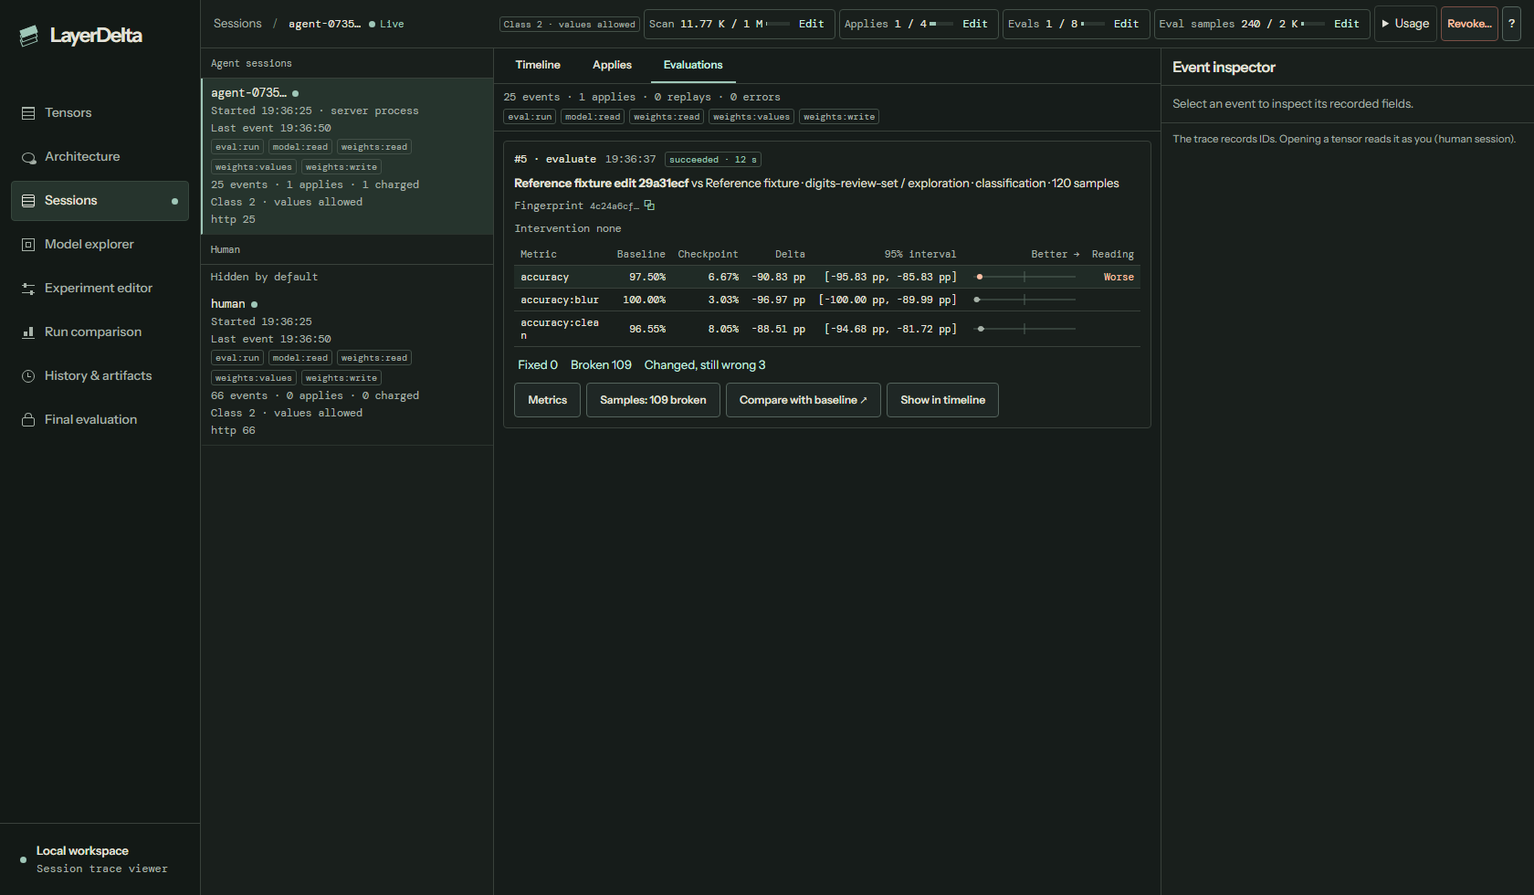
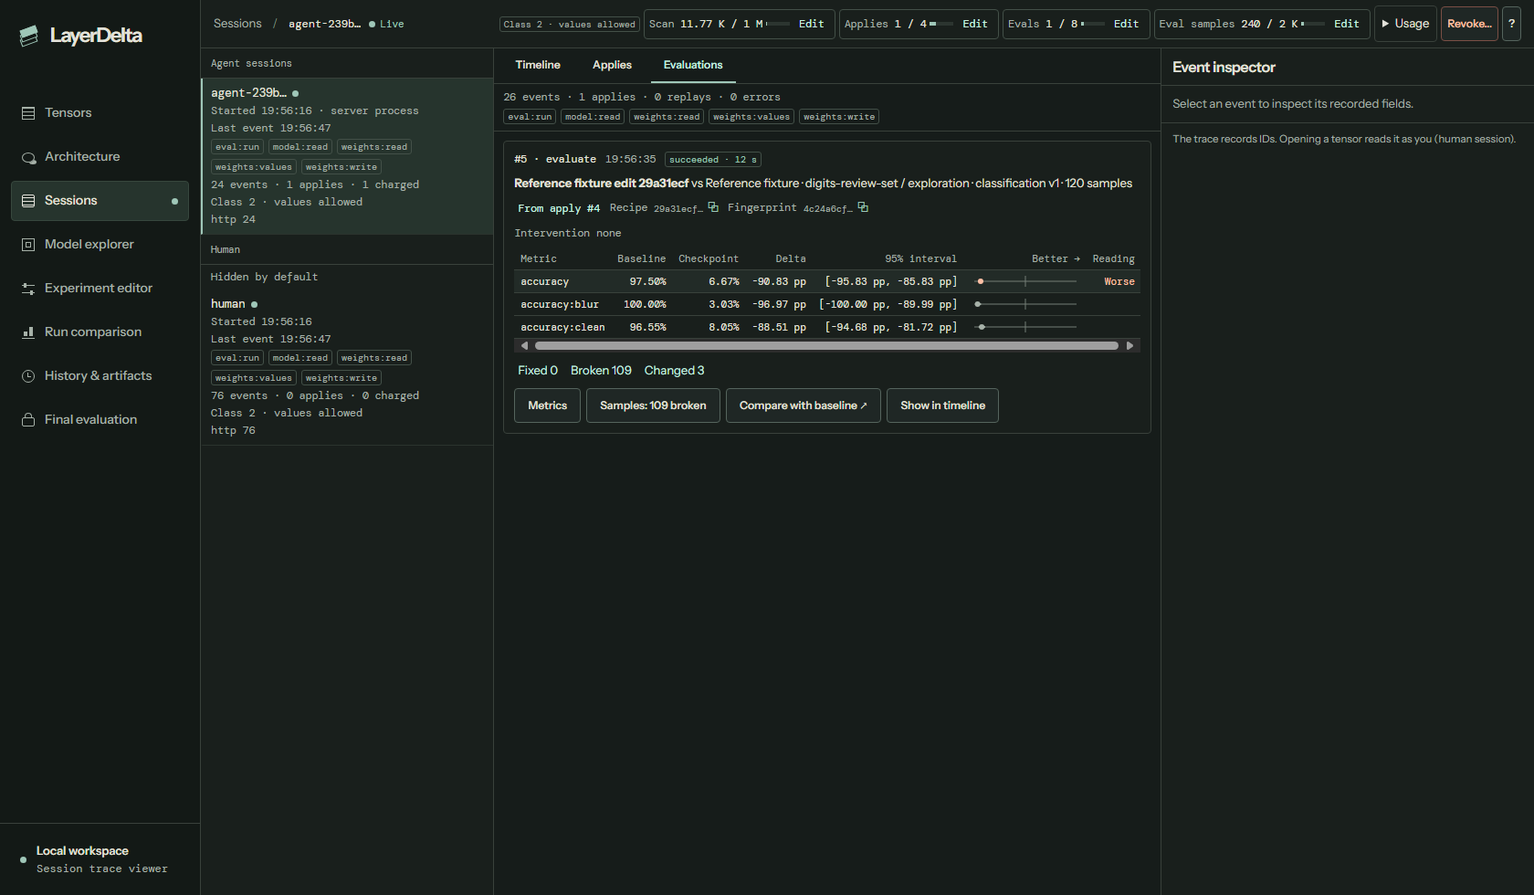
Align evaluation review with the live contract

diff --git a/desktop/src/SessionMeasurements.tsx b/desktop/src/SessionMeasurements.tsx
@@ -97,9 +97,10 @@ function IntervalPlot({metric, extent}: {metric: Metric; extent: number}) {
     {metric.delta !== null && <circle fill="currentColor" cx={pos(metric.delta)} cy="7" r="3"/>}
   </svg>;
 }
-function MetricTable({metrics, dataset, absolute = false}: {metrics: Metric[]; dataset?: Dataset; absolute?: boolean}) {
+function MetricTable({metrics, dataset, absolute = false, extent}: {metrics: Metric[]; dataset?: Dataset; absolute?: boolean;
+  extent?: ReturnType<typeof intervalDomain>}) {
   const sorted = [...metrics].sort((a,b) => Number(b.primary) - Number(a.primary));
-  const domain = intervalDomain(sorted);
+  const domain = extent ?? intervalDomain(sorted);
   return <div className="ev-metric-scroll"><table className="ev-metrics">
     <thead><tr><th>Metric</th>{!absolute && <th>Baseline</th>}<th>Checkpoint</th>{!absolute && <>
       <th>Delta</th><th>95% interval</th><th>Better →</th><th>Reading</th></>}</tr></thead>
@@ -111,7 +112,7 @@ function MetricTable({metrics, dataset, absolute = false}: {metrics: Metric[]; d
         "Confusion " + label(Number(confusion[1])) + " → " + label(Number(confusion[2])) + (confusion[3] ? " · " + confusion[3] : "") :
         m.name.replaceAll("_", " ");
       return <tr key={m.name + ":" + (row.class ?? "")} data-primary={m.primary}>
-        <th scope="row">{name}</th>
+        <th scope="row" title={String(name)}>{name}</th>
         {!absolute && <td>{metricNumber(m.baseline, m.unit)}</td>}<td>{metricNumber(m.value, m.unit)}</td>
         {!absolute && <><td>{metricNumber(m.delta, m.unit, true)}</td>
           <td>{m.ci ? "[" + m.ci.map(n => metricNumber(n, m.unit, true)).join(", ") + "]" : row.n == null ? "No interval" : "No interval (n = " + count(row.n) + ")"}</td>
@@ -161,7 +162,7 @@ function EvaluationHeader({event, job, dataset, names, now, events, jump}: {even
       {typeof task === "string" && " · " + task}{(typeof version === "string" || typeof version === "number") && " v" + version}
       {job && " · " + count(job.samples) + " samples"}
     </p>
-    <p className="tv-meta ev-measured">{event.links?.apply_seq !== undefined && <button type="button" className="tv-text-button" onClick={() => jump(event.links!.apply_seq!)}>From apply #{event.links.apply_seq}</button>}
+    <p className="tv-meta ev-measured">{event.links?.apply_seq != null && <button type="button" className="tv-text-button" onClick={() => jump(event.links!.apply_seq!)}>From apply #{event.links.apply_seq}</button>}
       {recipe && <> Recipe <CopyId id={recipe} label="recipe"/></>}
       {hash && <> Fingerprint <CopyId id={hash} label="fingerprint"/></>}
       {(job?.baseline_cached || event.baseline_cached) && <span className="tv-flag">cached baseline</span>}</p>
@@ -234,6 +235,9 @@ export function EvaluationDetail({detail, event, events, now, names, datasets, a
   const {dataset, failed} = useDataset(id, datasets.get(id ?? ""));
   const ready = job?.status === "succeeded";
   const absolute = job?.baseline_id === null;
+  const metrics = job?.metrics ?? [];
+  const extent = intervalDomain(metrics.flatMap(metric => [metric, ...(metric.per_class ?? [])]));
+  const splitHash = job?.split_sha256 ?? event.split_sha256 ?? dataset?.split_sha256?.[job?.split ?? ""];
   return <div className="ev-detail">
     <div className="ev-actions ev-detail-nav">
       <button type="button" onClick={back}>← Evaluations</button>
@@ -247,11 +251,11 @@ export function EvaluationDetail({detail, event, events, now, names, datasets, a
         <div className="ev-actions">{compareAction(job, actions)}<button type="button" onClick={() => jump(event.seq)}>Show in timeline</button></div>
         {job.evaluator && <details open><summary>Evaluator</summary><Facts values={job.evaluator}/></details>}
         {dataset && <details open><summary>Dataset preprocessing</summary><Facts values={dataset.preprocessing}/></details>}
-        {(job.split_hash ?? dataset?.split_sha256?.[job.split]) && <p className="tv-meta">Dataset split hash <CopyId id={(job.split_hash ?? dataset?.split_sha256?.[job.split])!} label="split hash"/></p>}
-        {!!job.metrics?.length && <MetricTable metrics={job.metrics} dataset={dataset} absolute={absolute}/>}
+        {splitHash && <p className="tv-meta">Dataset split hash <CopyId id={splitHash} label="split hash"/></p>}
+        {!!job.metrics?.length && <MetricTable metrics={job.metrics} dataset={dataset} absolute={absolute} extent={extent}/>}
         {job.metrics?.map(metric => !!metric.per_class?.length && <details key={metric.name}>
           <summary>{metric.name.replaceAll("_", " ")} per class ({metric.per_class.length})</summary>
-          <MetricTable metrics={[...metric.per_class].sort((a,b) => Math.abs(b.delta ?? 0) - Math.abs(a.delta ?? 0)).map(row => ({...row, primary: false}))} dataset={dataset} absolute={absolute}/>
+          <MetricTable metrics={[...metric.per_class].sort((a,b) => Math.abs(b.delta ?? 0) - Math.abs(a.delta ?? 0)).map(row => ({...row, primary: false}))} dataset={dataset} absolute={absolute} extent={extent}/>
         </details>)}
         <p className="tv-meta">Deltas are paired on the same samples. Intervals are 95% paired bootstrap, 2,000 resamples, fixed seed.</p>
       </>}
@@ -315,10 +319,10 @@ export function MeasurementEvidence({event, events, datasets, now, actions, open
     if (name) sections.push(<p key="dataset">Dataset {name}</p>);
   }
   if (isRead && origin) sections.push(<p key="origin">The agent read the results of <button type="button" className="tv-text-button" onClick={() => jump(origin.seq)}>#{origin.seq}</button>.</p>);
-  if (event.page_offset != null) {
+  if (event.offset != null) {
     const limit = event.page_limit;
-    sections.push(<p key="page">{limit ? "Page " + (Math.floor(event.page_offset / limit) + 1) + " · rows " + (event.page_offset + 1) + "–" + (event.page_offset + limit) :
-      "Rows starting at " + (event.page_offset + 1)}</p>);
+    sections.push(<p key="page">{limit ? "Page " + (Math.floor(event.offset / limit) + 1) + " · requested rows " + (event.offset + 1) + "–" + (event.offset + limit) :
+      "Rows starting at " + (event.offset + 1)}</p>);
   }
   if (record && "evaluation_id" in record) {
     const evalEvent = origin ?? event;

diff --git a/desktop/src/sessionMeasurements.css b/desktop/src/sessionMeasurements.css
@@ -2,7 +2,7 @@
 .ev-actions label {display:flex; align-items:center; gap:5px}
 .ev-actions input[type=number] {width:65px}
 .ev-actions select {width:auto; max-width:160px}
-.ev-actions button[aria-pressed=true] {color:var(--tv-light); border-color:var(--tv-mint); background:#26342d}
+.ev-actions button[aria-pressed=true] {color:var(--tv-light); border-color:var(--tv-mint); background:color-mix(in srgb,var(--tv-mint) 12%,var(--tv-ground))}
 .ev-list,.ev-detail {flex:1; min-height:0; overflow:auto}
 .ev-list .tv-cards {overflow:visible}
 .ev-list > button {margin:8px}
@@ -19,23 +19,24 @@
   .tv-context-meters .tv-meter progress {width:26px}
   .trace-viewer .tv-context-meters > button,.trace-viewer .tv-context-meters .tv-meter button {padding-inline:6px}
 }
-.ev-measure-only,.ev-pixel-notice {padding:7px 9px; background:#24352e; border-left:2px solid var(--tv-mint); color:var(--tv-light)}
+.ev-measure-only,.ev-pixel-notice {padding:7px 9px; background:color-mix(in srgb,var(--tv-mint) 14%,var(--tv-ground)); border-left:2px solid var(--tv-mint); color:var(--tv-light)}
 .ev-copy {display:inline-flex; align-items:center; gap:2px}
 .ev-metric-scroll {overflow:auto; max-width:100%}
 .ev-metrics,.ev-probe-table {border-collapse:collapse; width:100%; font:11px var(--meta-face); font-variant-numeric:tabular-nums}
 .ev-metrics :is(td,th),.ev-probe-table :is(td,th) {border-bottom:1px solid var(--tv-line); padding:5px 7px; text-align:right; white-space:nowrap}
-.ev-metrics :is(td,th):first-child {text-align:left; white-space:normal; min-width:76px}
+.ev-metrics :is(td,th):first-child {text-align:left; min-width:76px; max-width:132px; overflow:hidden; text-overflow:ellipsis}
 .ev-metrics thead th,.ev-probe-table thead th {color:var(--tv-muted); font-weight:400}
-.ev-metrics tbody tr[data-primary=true] {background:#202b26}
-.ev-primary {display:flex; align-items:baseline; flex-wrap:wrap; gap:5px 9px; font:11px var(--meta-face); padding:6px; background:#202b26}
+.ev-metrics tbody tr[data-primary=true] {background:color-mix(in srgb,var(--tv-mint) 7%,var(--tv-ground))}
+.ev-primary {display:flex; align-items:baseline; flex-wrap:wrap; gap:5px 9px; font:11px var(--meta-face); padding:6px; background:color-mix(in srgb,var(--tv-mint) 7%,var(--tv-ground))}
 .ev-interval {display:block; color:var(--tv-muted)}
-.ev-guide {stroke:#52645a; stroke-width:1}
+.ev-guide {stroke:color-mix(in srgb,var(--tv-muted) 55%,var(--tv-line)); stroke-width:1}
 :is(.ev-interval,.ev-reading)[data-reading=Improved] {color:var(--tv-mint)}
 :is(.ev-interval,.ev-reading)[data-reading=Worse] {color:var(--tv-bad)}
 .ev-facts {padding:6px}
 .ev-job-anchor {display:inline-flex; gap:3px; min-width:1px; min-height:10px; align-items:center}
 .ev-job[data-job=running] {color:var(--tv-run)}
 .ev-job[data-job=failed] {color:var(--tv-bad)}
+.tv-event-flags .ev-raw {flex:none}
 .ev-job[data-job=succeeded] {color:var(--tv-mint)}
 .tv-event-flags:has(.ev-intervention-flag) .tv-charge {order:1}
 .tv-event-flags .ev-intervention-flag {flex:none; color:var(--tv-write)}
@@ -49,9 +50,9 @@
 .trace-viewer .ev-sample-tile {display:grid; justify-items:center; gap:4px; text-align:left; width:100%; min-width:0; padding:5px; border-left:2px solid var(--tv-line)}
 .trace-viewer .ev-sample-tile[data-category=broken] {border-left-color:var(--tv-bad)}
 .trace-viewer .ev-sample-tile[data-category=fixed] {border-left-color:var(--tv-mint)}
-.ev-sample-grid [aria-selected=true] .ev-sample-tile {outline:1px solid var(--tv-mint); background:#26342d}
+.ev-sample-grid [aria-selected=true] .ev-sample-tile {outline:1px solid var(--tv-mint); background:color-mix(in srgb,var(--tv-mint) 12%,var(--tv-ground))}
 .ev-image-container {width:min(var(--ev-image-size),100%); height:auto; aspect-ratio:1; display:grid; place-items:center; align-content:center; margin-inline:auto;
-  background:#171e1c; position:relative; overflow:hidden}
+  background:var(--tv-ground); position:relative; overflow:hidden}
 .ev-image-stack {max-width:100%; max-height:100%; position:relative; line-height:0}
 .ev-image-stack img {width:100%; height:100%; object-fit:contain}
 .ev-image-stack img[data-pixelated=true] {image-rendering:pixelated}

diff --git a/desktop/src/TraceTimeline.tsx b/desktop/src/TraceTimeline.tsx
@@ -58,7 +58,7 @@ export function TraceTimeline({events, selected, session, names, resolved, follo
     Math.max(width, String(event.status).length + (event.error_code ? 1 + event.error_code.length : 0)), 6), [events]);
   const chargeWidth = useMemo(() => events.reduce((width, event) => Math.max(width, ...Object.entries(event.budget_charged ?? {})
     .filter(([, amount]) => amount > 0).map(([dim, amount]) => (dim + " " + count(amount)).length)), 8), [events]);
-  const measureWidth = events.some(event => event.evaluation_id || event.probe_id) ? 130 : 0;
+  const measureWidth = events.some(event => event.evaluation_id || event.probe_id) ? 153 : 0;
   const budgetRow = rows.findIndex(row => "event" in row && row.event.status === 429);
   const mix = Object.entries(session.via_mix ?? {}).filter(([, n]) => n > 0).length > 1;
   const focused = cursor ?? selectionKey;
@@ -177,7 +177,8 @@ export function TraceTimeline({events, selected, session, names, resolved, follo
             </div>;
             if ("burst" in row) {
               const first = row.burst[0], last = row.burst.at(-1)!;
-              const targets = [...new Set(row.burst.map(event => eventTarget(event, names, resolved)))];
+              const resultId = measureResultKey(first);
+              const targets = resultId ? [shortId(resultId)] : [...new Set(row.burst.map(event => eventTarget(event, names, resolved)))];
               return <div role="row" key={row.key} style={style} aria-rowindex={i + 1} className="tv-event tv-burst" data-dim={!keep(first)}>
                 <span role="rowheader">#{first.seq}</span><span role="gridcell" className="tv-full">
                   <button type="button" aria-expanded={row.expanded} onClick={() => setOpened(previous => {
@@ -227,7 +228,8 @@ export function TraceTimeline({events, selected, session, names, resolved, follo
                 {isReplay(event) ? <span className="tv-flag tv-replay">↩ {event.replay_of === null ? "replayed" : "#" + event.replay_of}</span> :
                   isCharged(event) && <span className="tv-flag tv-charge">{budget.length ? budget[0][0] + " " + count(budget[0][1]) : "charged"}</span>}
                 {event.intervention_id && <span className="tv-flag ev-intervention-flag">intervention</span>}
-                {id && <JobChip id={id} now={now} raw={!!event.probe_id && event.capabilities.includes("weights:values") && event.session !== "human"}/>}
+                {id && !measureResultKey(event) &&
+                  <JobChip id={id} now={now} compact raw={!!event.probe_id && event.capabilities.includes("weights:values") && event.session !== "human"}/>}
                 {event.baseline_cached && <span className="tv-flag">cached baseline</span>}
                 {row.capChanged && <span className="tv-flag">caps changed</span>}
                 {event.existing && <span className="tv-flag">existing</span>}

diff --git a/desktop/src/traceSource.ts b/desktop/src/traceSource.ts
@@ -12,10 +12,10 @@ export type TraceEvent = {
   selections: string[]; ops: number | string[] | null; recipe_hash: string | null; child_id: string | null; run_id: string | null;
   idempotency_key: string | null; replayed: boolean | null; replay_of: number | null; existing: boolean | null;
   charged: number; budget_charged: Partial<Record<Dimension, number>> | null; capabilities: string[];
-  links: {plan_seqs: number[]; selection_seqs: number[]; child_id: string | null; proposal_seq?: number; apply_seq?: number} | null;
-  evaluation_id?: string; probe_id?: string; dataset_id?: string; split?: string; split_hash?: string;
+  links: {plan_seqs: number[]; selection_seqs: number[]; child_id: string | null; proposal_seq?: number; apply_seq?: number | null} | null;
+  evaluation_id?: string; probe_id?: string; dataset_id?: string; split?: string; split_sha256?: string;
   fingerprint?: string; baseline_id?: string | null; baseline_cached?: boolean; eval_samples?: number;
-  intervention_id?: string; units?: number; page_offset?: number; page_limit?: number;
+  intervention_id?: string; units?: number; offset?: number; page_limit?: number;
   control: {principal: "human"; action: "revoke" | "budget_change" | "approve" | "reject";
     dimension?: Dimension; from?: number | null; to?: number | null; proposal_id?: string; child_id?: string} | null;
   duration_ms: number | null; principal: string | null; target_session: string | null;
@@ -68,9 +68,9 @@ export function traceEvent(raw: Partial<TraceEvent> & Pick<TraceEvent, "event_id
     capabilities: raw.capabilities ?? [],
     links: raw.links ? {plan_seqs: raw.links.plan_seqs ?? [], selection_seqs: raw.links.selection_seqs ?? [],
       child_id: raw.links.child_id ?? null, proposal_seq: raw.links.proposal_seq, apply_seq: raw.links.apply_seq} : null,
-    evaluation_id: raw.evaluation_id, probe_id: raw.probe_id, dataset_id: raw.dataset_id, split: raw.split, split_hash: raw.split_hash,
+    evaluation_id: raw.evaluation_id, probe_id: raw.probe_id, dataset_id: raw.dataset_id, split: raw.split, split_sha256: raw.split_sha256,
     fingerprint: raw.fingerprint, baseline_id: raw.baseline_id, baseline_cached: raw.baseline_cached, eval_samples: raw.eval_samples,
-    intervention_id: raw.intervention_id, units: raw.units, page_offset: raw.page_offset, page_limit: raw.page_limit,
+    intervention_id: raw.intervention_id, units: raw.units, offset: raw.offset, page_limit: raw.page_limit,
     control: control ? {principal: control.principal, action: control.action, dimension: control.dimension, from: control.from, to: control.to,
       proposal_id: control.proposal_id, child_id: control.child_id} : null,
     duration_ms: raw.duration_ms ?? null, principal: raw.principal ?? null, target_session: raw.target_session ?? null,

diff --git a/desktop/src/TraceInspector.tsx b/desktop/src/TraceInspector.tsx
@@ -14,12 +14,12 @@ type Evidence = {
   actions: TraceActions; jump: (seq: number) => void;
 };
 const idFields = new Set(["session", "request_id", "checkpoint_id", "other_checkpoint_id", "selection_id", "recipe_hash", "child_id", "run_id", "idempotency_key", "target_session", "proposal_id",
-  "evaluation_id", "probe_id", "dataset_id", "split_hash", "fingerprint", "baseline_id", "intervention_id"]);
+  "evaluation_id", "probe_id", "dataset_id", "split_sha256", "fingerprint", "baseline_id", "intervention_id"]);
 const fields = [
   "event_id", "session", "seq", "at", "route", "tool", "via", "request_id", "status", "error_code", "field", "checkpoint_id",
   "other_checkpoint_id", "selection_id", "selections", "ops", "recipe_hash", "child_id", "run_id", "idempotency_key", "replayed", "replay_of",
-  "existing", "charged", "budget_charged", "capabilities", "links", "duration_ms", "control", "evaluation_id", "probe_id", "dataset_id", "split", "split_hash",
-  "fingerprint", "baseline_id", "baseline_cached", "eval_samples", "intervention_id", "units", "page_offset", "page_limit", "principal", "target_session", "budget_change", "proposal_id",
+  "existing", "charged", "budget_charged", "capabilities", "links", "duration_ms", "control", "evaluation_id", "probe_id", "dataset_id", "split", "split_sha256",
+  "fingerprint", "baseline_id", "baseline_cached", "eval_samples", "intervention_id", "units", "offset", "page_limit", "principal", "target_session", "budget_change", "proposal_id",
 ] as const;
 
 function CopyField({label, value, copied}: {label: string; value: string; copied: (message: string) => void}) {
@@ -30,9 +30,11 @@ function CopyField({label, value, copied}: {label: string; value: string; copied
 export function Links({event, jump}: {event: TraceEvent; jump: Evidence["jump"]}) {
   const read = event.links?.selection_seqs ?? [];
   const plan = event.links?.plan_seqs ?? [];
+  const apply = event.links?.apply_seq;
   return <div className="tv-links">
     {!!read.length && <div><span>Reads</span>{read.map(seq => <button type="button" key={seq} onClick={() => jump(seq)}>#{seq}</button>)}</div>}
     {!!plan.length && <div><span>Plans</span>{plan.map(seq => <button type="button" key={seq} onClick={() => jump(seq)}>#{seq}</button>)}</div>}
+    {apply != null && <div><span>Apply</span><button type="button" onClick={() => jump(apply)}>#{apply}</button></div>}
     {event.links?.proposal_seq !== undefined && <div><span>Proposal</span><button type="button" onClick={() => jump(event.links!.proposal_seq!)}>#{event.links.proposal_seq}</button></div>}
     {event.replay_of !== null && <div><span>Original event</span><button type="button" onClick={() => jump(event.replay_of!)}>#{event.replay_of}</button></div>}
   </div>;

diff --git a/desktop/src/EvaluationSamples.tsx b/desktop/src/EvaluationSamples.tsx
@@ -184,9 +184,9 @@ export function EvaluationSamples({job, dataset, category, setCategory, selected
     setRows([]); setCursor(null); setTotal(undefined); select(); load();
     return () => request.current?.abort();
   }, [category, sort, job.evaluation_id, source, reissue]);
-  const conditions = [...new Set(rows.flatMap(row => row.condition ? [row.condition] : []))].sort();
+  const conditions = [...new Set([...rows.flatMap(row => row.condition ? [row.condition] : []), ...(condition ? [condition] : [])])].sort();
   const filtered = rows.filter(row => (!truth || String(row.label) === truth) && (!condition || row.condition === condition) &&
-    (!distance || Math.round(row.score_after * Math.max(1, String(row.label ?? "").length)) >= distance));
+    (!distance || Math.round(row.score_after * Math.max(1, Array.from(String(row.label ?? "")).length)) >= distance));
   const focusId = filtered.find(row => row.sample_id === selected?.sample_id)?.sample_id ?? filtered[0]?.sample_id;
   const size = large ? 160 : 96;
   function moveFocus(event: KeyboardEvent<HTMLButtonElement>, index: number) {
@@ -204,7 +204,8 @@ export function EvaluationSamples({job, dataset, category, setCategory, selected
     <div className="ev-actions" aria-label="Sample categories">
       {categories.map(kind => <button key={kind} type="button" aria-pressed={kind === category} onClick={() => setCategory(kind)}>
         {categoryLabels[kind]} {count(job.counts?.[kind] ?? 0)}</button>)}
-      <details><summary>Correctness</summary><p>{predicates[dataset.task]}</p></details>
+      <details><summary>Correctness</summary><p>{predicates[dataset.task]}</p>
+        <p>Changed means the record changed and its correctness stayed the same.</p></details>
     </div>
     <div className="ev-actions" aria-label="Sample filters">
       {!!dataset.classes?.length && dataset.task === "classification" && <select aria-label="Filter by truth class" value={truth} onChange={e => setTruth(e.target.value)}>

diff --git a/desktop/src/MeasurementJobs.tsx b/desktop/src/MeasurementJobs.tsx
@@ -74,13 +74,14 @@ export function MeasurementJobs({children, source = liveEvaluationSource}: {chil
   return <Context.Provider value={{read: id => entries.get(id), watch, source}}>{children}</Context.Provider>;
 }
 
-export function JobChip({id, raw = false, now}: {id: string; raw?: boolean; now: number}) {
+export function JobChip({id, raw = false, now, compact = false}: {id: string; raw?: boolean; now: number; compact?: boolean}) {
   const {read, watch} = useMeasurementStore();
   const target = useRef<HTMLSpanElement>(null);
   useEffect(() => watch(id, target.current!, raw), [id, raw, watch]);
   const value = read(id)?.record;
   const elapsed = value?.started_at ? Math.max(0, Math.floor((Date.parse(value.finished_at ?? "") || now) / 1000 - Date.parse(value.started_at) / 1000)) : null;
-  return <span ref={target} className="ev-job-anchor">{value && <span className="tv-flag ev-job" data-job={value.status} title={value.message ?? undefined}>
-    {value.status}{value.error_code ? " · " + value.error_code : elapsed === null ? "" : " · " + elapsed + " s"}</span>}
-    {value && "raw" in value && value.raw && <span className="tv-flag ev-job" data-job="failed">raw</span>}</span>;
+  return <span ref={target} className="ev-job-anchor">
+    {value && "raw" in value && value.raw && <span className="tv-flag ev-job ev-raw" data-job="failed">raw</span>}
+    {value && <span className="tv-flag ev-job" data-job={value.status} title={value.message ?? undefined}>
+    {value.status}{value.error_code ? " · " + value.error_code : elapsed === null || compact && value.status !== "running" ? "" : " · " + elapsed + " s"}</span>}</span>;
 }

diff --git a/desktop/src/evaluationSource.ts b/desktop/src/evaluationSource.ts
@@ -9,8 +9,8 @@ export type JobState = "queued" | "running" | "succeeded" | "failed" | "cancelle
 type Job = {status: JobState; created_at: string; started_at: string | null; finished_at: string | null;
   error_code: string | null; message: string | null; checkpoint_id: string; dataset_id: string; samples: number};
 export type Intervention = {node_id?: string; group?: string; units: number[]; op: string; factor?: number | null};
-export type Evaluation = Job & {evaluation_id: string; split: string; split_hash?: string; fingerprint: string; baseline_id: string | null;
-  baseline_cached: boolean; intervention?: Intervention; evaluator?: Record<string, unknown>; metrics?: Metric[];
+export type Evaluation = Job & {evaluation_id: string; split: string; split_sha256?: string; fingerprint: string; baseline_id: string | null;
+  baseline_cached: boolean; intervention?: Intervention; evaluator?: Record<string, unknown> | null; metrics?: Metric[];
   counts?: Record<Category, number> & {samples: number}; resamples?: number | null; recipe_hash?: string | null};
 export type Aggregate = {n: number; mean: number[]; std: number[]; l2: number[]; frac_positive: number[];
   histogram?: {edges: number[]; counts: number[][]}};

diff --git a/desktop/src/measurementModel.ts b/desktop/src/measurementModel.ts
@@ -26,7 +26,7 @@ export function evaluationLinks(events: TraceEvent[], event?: TraceEvent) {
     for (const seq of [...(apply.links?.plan_seqs ?? []), ...(apply.links?.selection_seqs ?? [])]) links.add(seq);
     if (apply.links?.proposal_seq !== undefined) links.add(apply.links.proposal_seq);
   }
-  if (event.links?.apply_seq !== undefined) {
+  if (event.links?.apply_seq != null) {
     links.add(event.links.apply_seq);
     const apply = events.find(row => row.seq === event.links?.apply_seq);
     if (apply) addApply(apply);
@@ -41,7 +41,7 @@ export function originOf(events: TraceEvent[], event: TraceEvent) {
   return events.find(row => (row.tool === "evaluate" && row.evaluation_id && row.evaluation_id === event.evaluation_id ||
     row.tool === "probe" && row.probe_id && row.probe_id === event.probe_id) && row.replayed !== true);
 }
-export const categoryLabels = {broken: "Broken", fixed: "Fixed", changed: "Changed, still wrong"} as const;
+export const categoryLabels = {broken: "Broken", fixed: "Fixed", changed: "Changed"} as const;
 export const predicates: Record<Task, string> = {
   classification: "The predicted class equals the truth.",
   segmentation: "Sample mean IoU is at least 0.5.",
